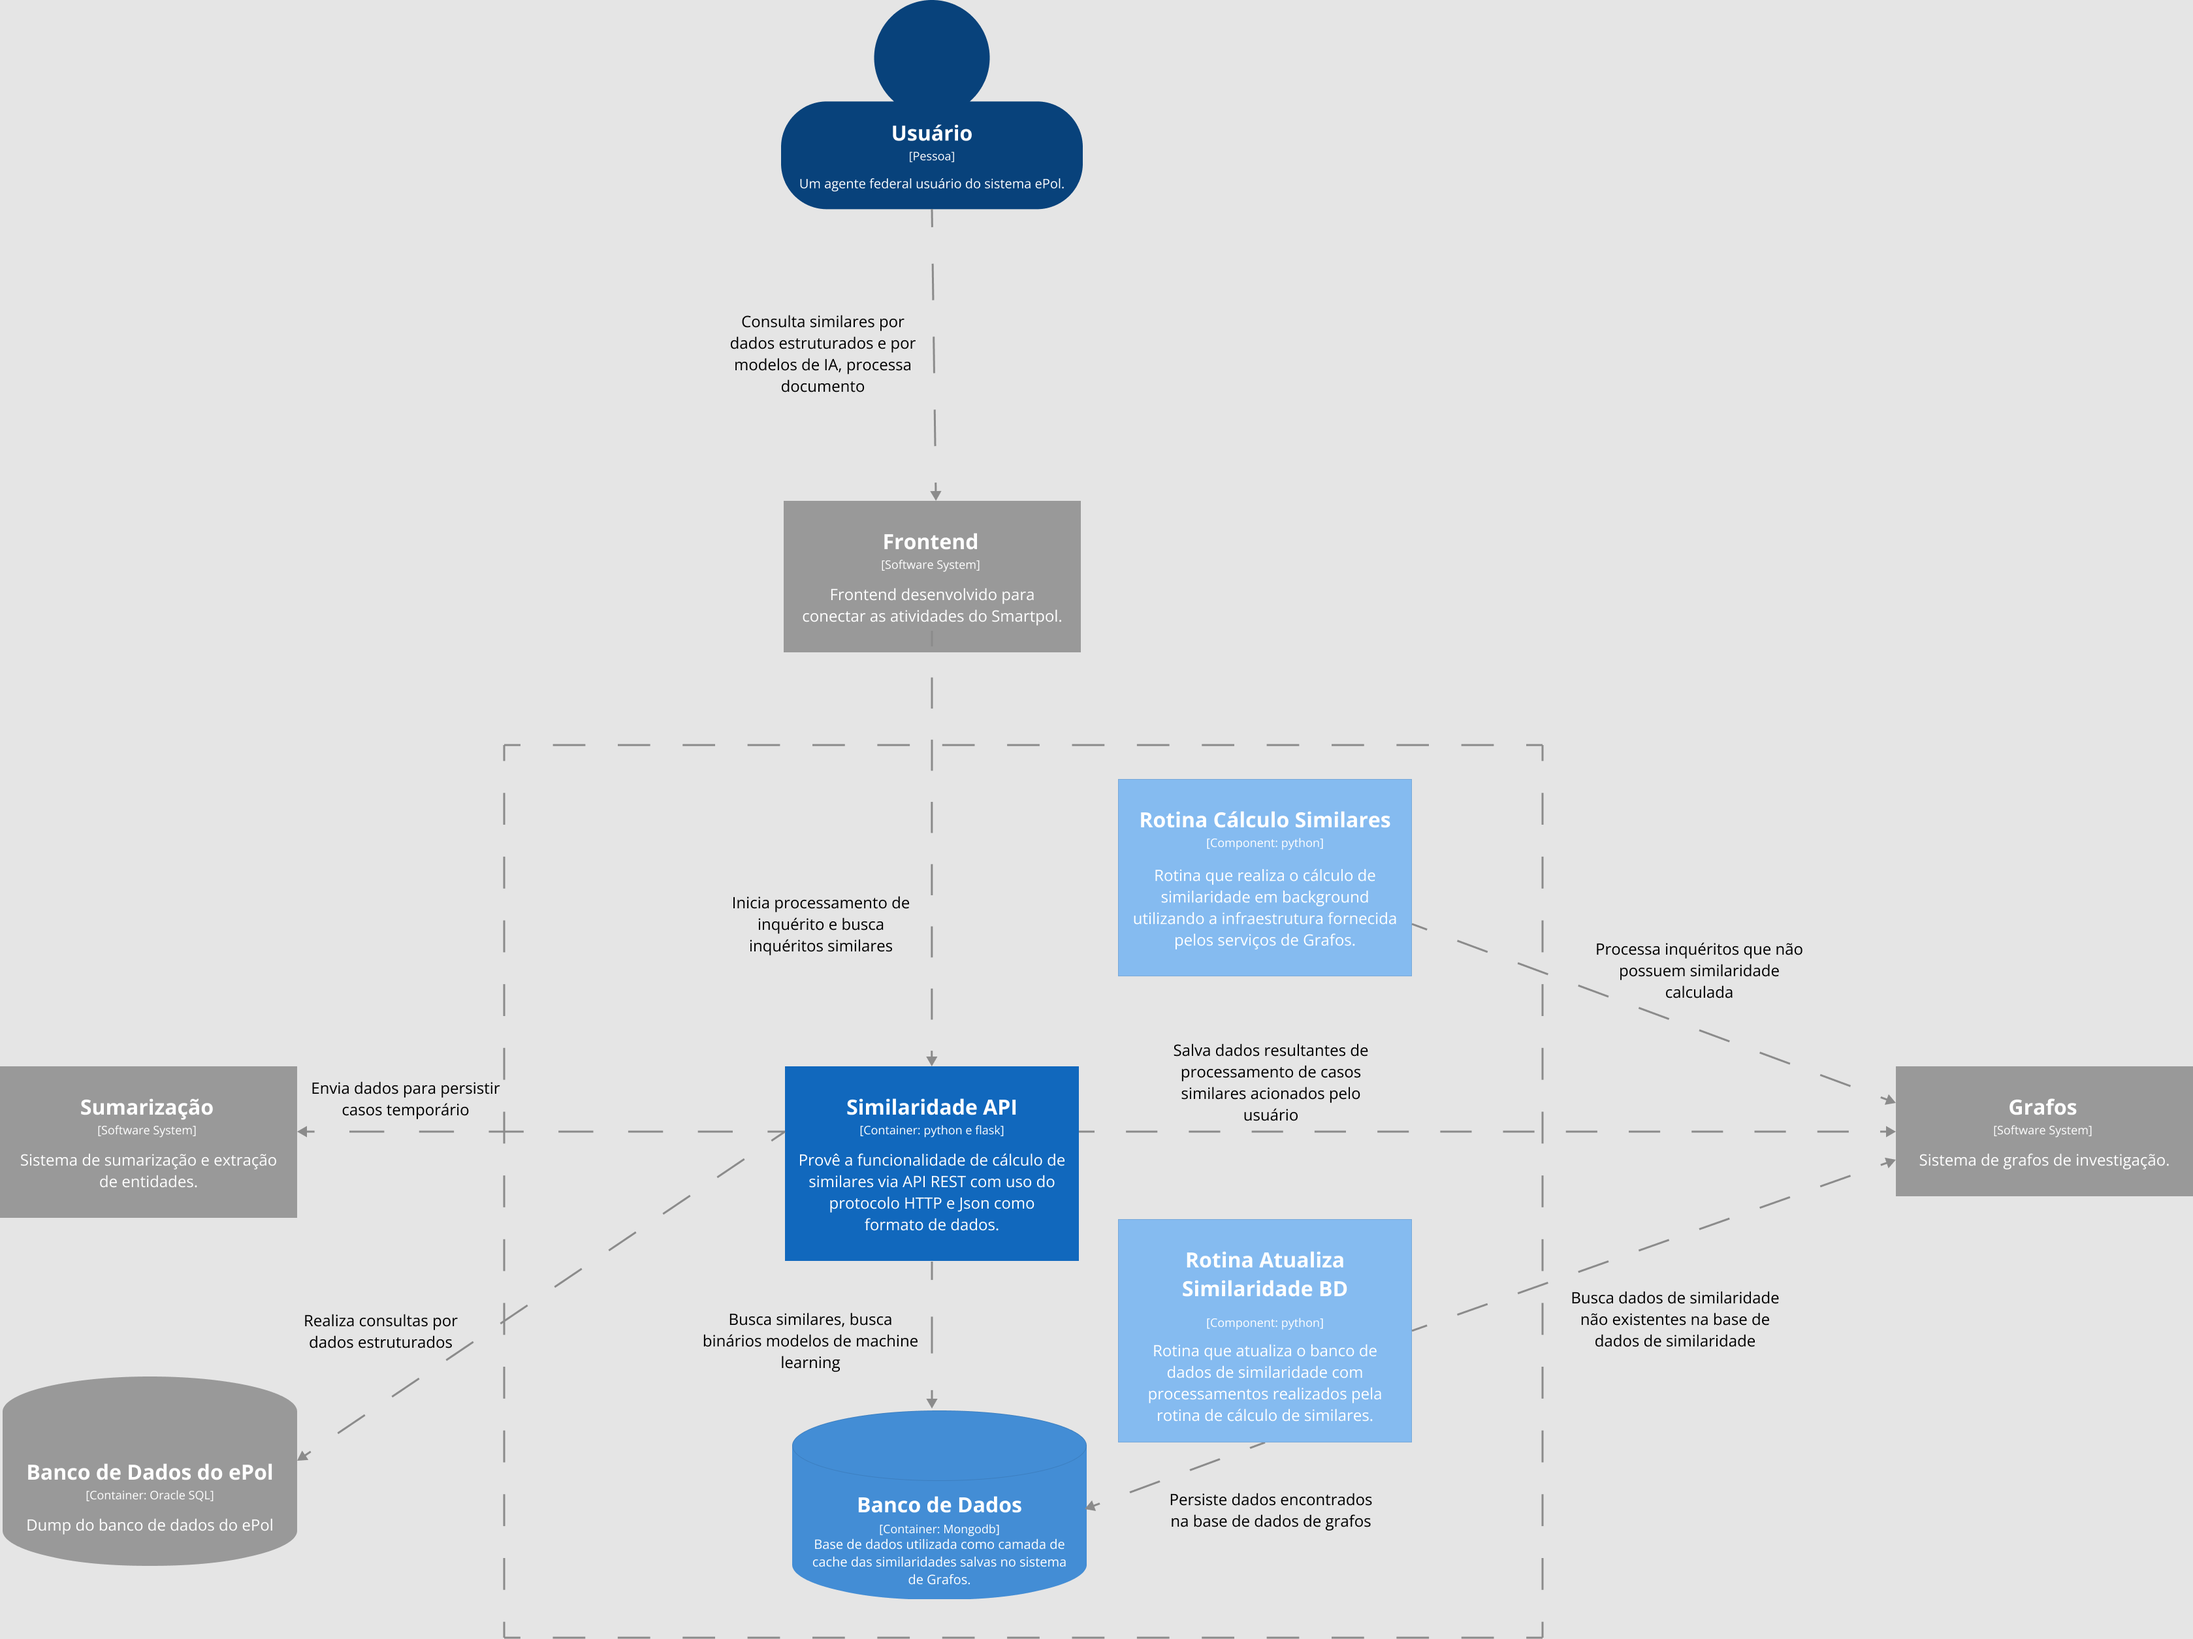
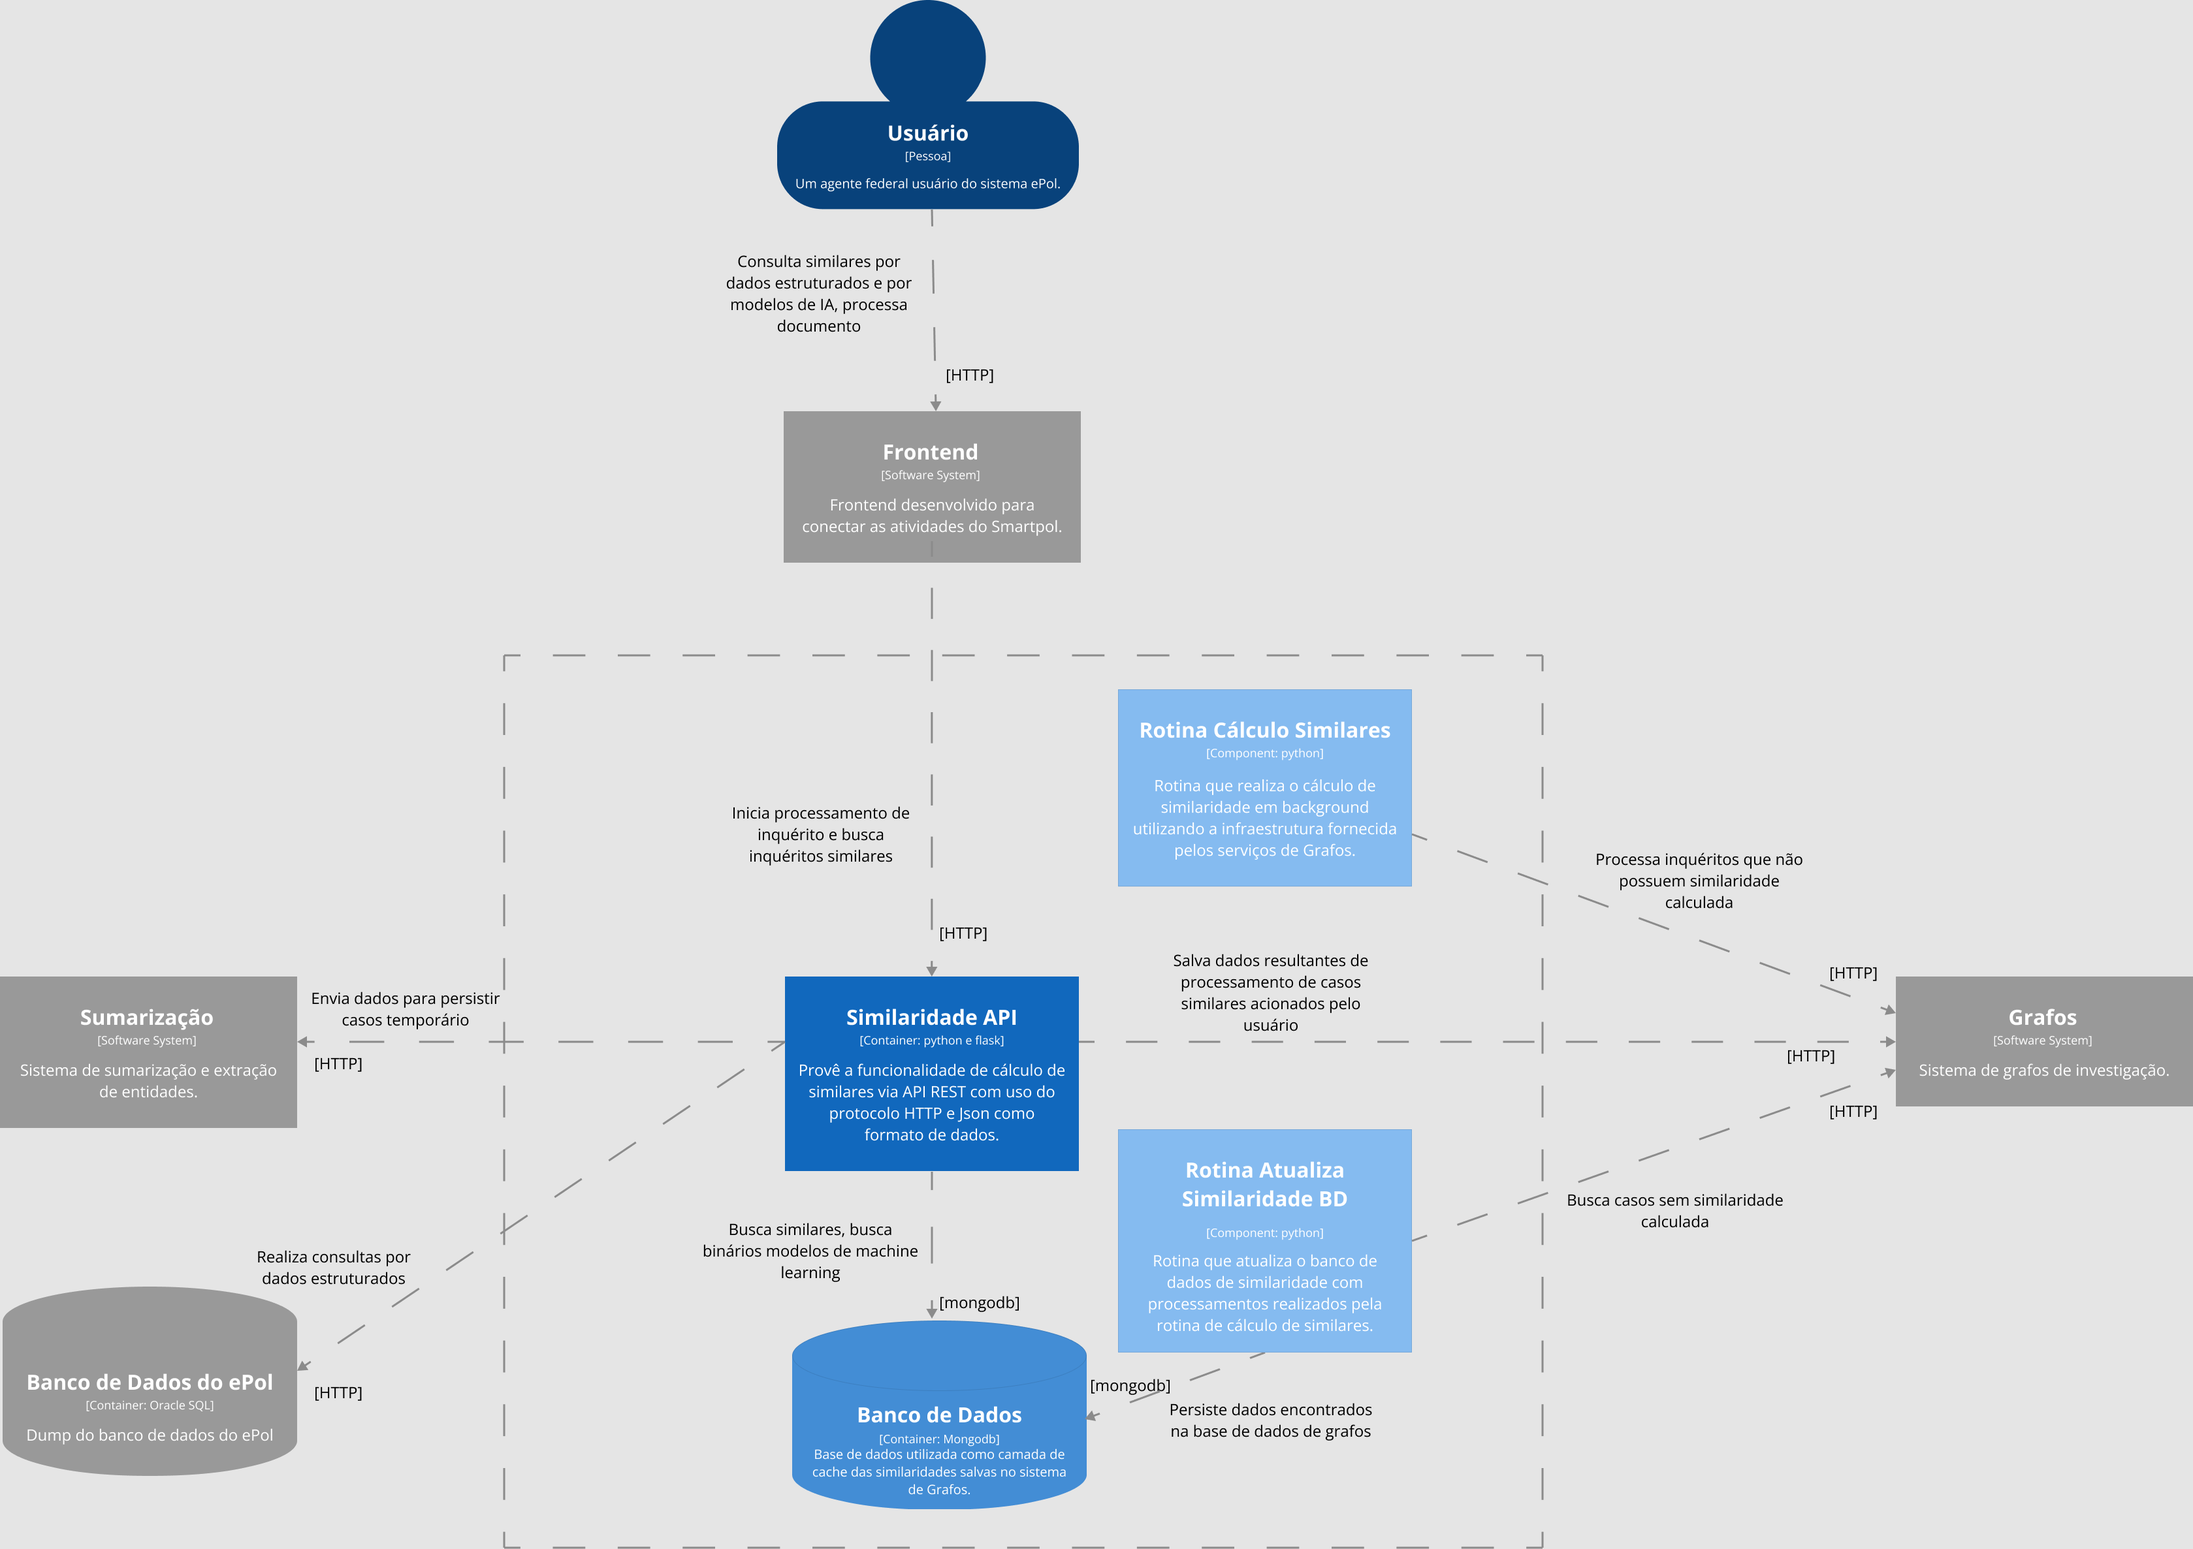
add epol similarity component section

diff --git a/content/posts/epol.md b/content/posts/epol.md
@@ -58,11 +58,15 @@ A rotina de atualização da base de dados de similares é feita em Python, exec
 
 Dentre as rotas da API REST de similaridade, temos:
 
+##### Buscar caso no BD ePol
+
 ```
 /caso/<numero_caso>
 ```
 
 Realiza a busca dos dados de um caso no Banco de Dados do ePol utilizando o número do caso passado como identificador do caso.
+
+##### Buscar casos similares
 
 ```
 /caso/<node_id>/similares?metodo_similaridade=<tipo_similaridade>
@@ -70,11 +74,15 @@ Realiza a busca dos dados de um caso no Banco de Dados do ePol utilizando o núm
 
 Realiza a busca dos casos similares ao caso solicitado (caso identificado na base de dado de Grafos pelo node_id passado) de acordo com o método de similaridade passado como parâmetro de requisição, podendo esse método ser `"ia"` ou `"dados_estruturados"`.
 
+##### Iniciar transição de caso temporário para caso permantente
+
 ```
 /caso/temporario/<node_id>?salvar=<salvar>
 ```
 
 Realiza a remoção do caso temporário (identificado pelo node_id passado) e todos os seus arcos de similaridade da base de dados de Grafos e caso o parâmetro salvar for `True`, então é criada uma versão permanente desse caso após sua exclusão e todos os arcos de similaridade são transferidos para esse caso permanente.
+
+A seguir, o diagrama de container do ePol.
 
 ![Diagrama de container do ePol](./epol/container-diagram-epol.png)
 
@@ -83,3 +91,18 @@ Realiza a remoção do caso temporário (identificado pelo node_id passado) e to
 A implantação do sistema de similaridade é feito utilizando containers Docker em todos os serviços, e a configuração da comunicação com outros módulos é feita a partir de variáveis de ambiente, que comumente são utilizados no OpenShift Container Platform, porém como o Docker é um "criador" de ambiente, esses serviços podem ser executados em uma VM. Para mais detalhes, consultar a documentação oficial dos serviços citados. Segue abaixo o diagrama de implantação.
 
 ![Diagrama de implantação do ePol](./epol/diagrama-implantacao.png)
+
+### Componentes
+
+O módulo de Similaridade do ePol é composto por rotinas feitas em Python, sub-módulos feitos em Flask Python, e uma base de dados construída utilizando MongoDB.
+
+![Diagrama de componentes do ePol](./epol/component-diagram-epol.png)
+
+- **BD Similaridade**: Base de dados construída em MongoDB. Serve como uma camada de cache para que seja evitado um *overhead* de requisições para a base de dados de Grafos.
+- **Caso Controller**: Esse módulo é responsável pela parte de comunicação com o Frontend. É ele que inicia a busca por dados de um inquérito no banco de dados do ePol, que busca inquéritos similares a um inquérito alvo, e também quem inicia a transformação de um caso temporário no banco de dados de Grafos, para um caso permantente.
+- **Modelo Controller**: Reponsável por carregar binários de modelos de *Machine Learning*, e transformando-os em objetos Python.
+- **BD ePol Facade**: Fachada de acesso ao BD do ePol. É ela que é utilizada quando são requeridas informações de um caso já existente nessa base dados.
+- **BD Grafos Facade**: Fachada de acesso ao BD Grafos. Ela é utilizada para buscar informações de similaridade na base de dados de Grafos.
+- **Rotina de Cálculo de Similaridade**: Verifica informações de similaridade dos inquéritos presentes na base de dados de Grafos, realizando o processamento dessas informações se um inquérito não as possuir.
+- **Rotina de Atualização do BD Similaridade**: Compara informações de similaridade entre a base de dados de Grafos e a base de dados de Similaridade, se houver informação relevante, atualiza essa última.
+
